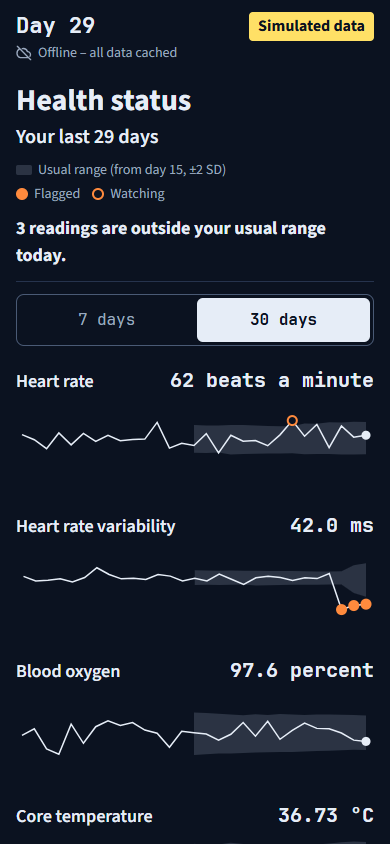
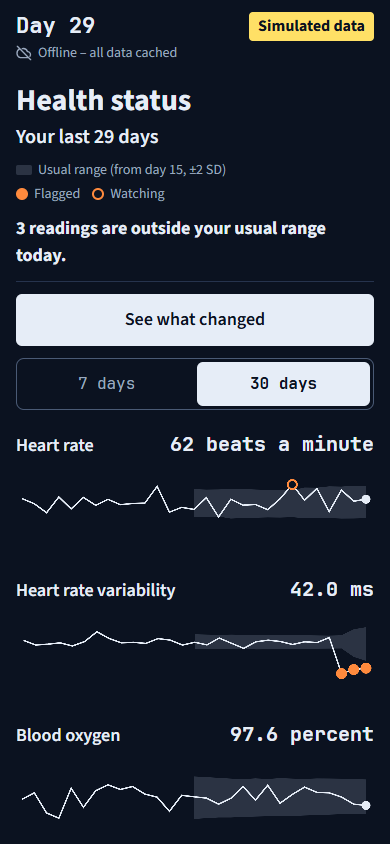
Rule wording matches the code; developer terms off screen; flag list and Health status hierarchy; README facts

diff --git a/app.js b/app.js
@@ -34,8 +34,8 @@ const make = (tag, text, cls) => { const el = put(document.createElement(tag), t
 const checked = (text) => put(document.createElement("span"), text).textContent; // for attributes such as aria-label
 
 const fmt = (signal, v, unit = SIGNALS[signal].unit) => `${v.toFixed(SIGNALS[signal].dp)} ${unit}`;
-// The numbers behind z (today, usual, spread) to one decimal everywhere; z uses the unrounded values,
-// and the card and the queue summary say so (ROUNDING_NOTE). Display only.
+// The numbers behind z (today, usual, spread) to one decimal everywhere; the spread count uses the unrounded values.
+// The card and the queue summary carry ROUNDING_NOTE. Display only.
 const fmtZ = (r, v) => `${v.toFixed(1)} ${SIGNALS[r.signal].unit}`;
 // A number with its unit, inside a sentence, goes in the number font (design: JetBrains Mono for numbers).
 // Runs after put(), on text that already passed the wording check. Display only.
@@ -45,10 +45,11 @@ function monoNums(el) {
     (i % 2 ? Object.assign(document.createElement("span"), { className: "n", textContent: part }) : part)));
   return el;
 }
-const ROUNDING_NOTE = "Numbers are shown to one decimal; z uses the unrounded values.";
+const ROUNDING_NOTE = "Numbers are shown to one decimal.";
 // True of Rules.evaluate: history is every earlier row (up to 30), today left out, flagged days not filtered out.
 const USUAL_NOTE = "Usual range uses your earlier days in this record, including days that were flagged.";
-const signed = (z) => `${z < 0 ? "−" : "+"}${Math.abs(z).toFixed(1)}`;
+// The queue summary's distance from usual in plain words (no "z", no rule id on screen; Hrishin, 13 Nov).
+const spreads = (z) => `${Math.abs(z).toFixed(1)} spreads ${z < 0 ? "below" : "above"} usual`;
 const listWords = (xs) => (xs.length < 2 ? xs.join("") : `${xs.slice(0, -1).join(", ")} and ${xs.at(-1)}`);
 const title = (r) => (r.signal ? SIGNALS[r.signal].name : "Several readings together");
 const names = (r) => listWords(r.signals.map((s, i) => (i ? SIGNALS[s].name.toLowerCase() : SIGNALS[s].name)));
@@ -443,7 +444,8 @@ function renderConsole() {
   put($("console-summary"), n === 0
     ? "Nothing is outside your usual range today."
     : `${n} ${n === 1 ? "reading is" : "readings are"} outside your usual range today.`);
-  $("to-flags").hidden = n === 0 && !state.radiation.fired && !marsCaution();
+  // One button under the summary line and one at the bottom; both hidden only when the list behind them is empty.
+  $("to-flags").hidden = $("to-flags-top").hidden = n === 0 && !state.radiation.fired && !marsCaution();
   $("followup").hidden = day !== NEXT;
   $("restart").hidden = day !== NEXT;
   if (day === NEXT) renderFollowUp();
@@ -615,18 +617,16 @@ function renderFlags() {
       monoNums(make("span", flagLine(r), "flag-line")),
       make("span", plainStatus(r), "flag-status"),
     );
+    // Projection for a flag outside the usual range 3 days running (web/projection.js): one quieter line inside its own card.
+    const p = r.signal && Projection.projection(state.rows, r.signal, state.flags);
+    if (p) {
+      const [text, meta] = Projection.lines(p, SIGNALS[r.signal]);
+      b.append(monoNums(make("span", text, "flag-trend")), make("span", meta, "flag-trend-note"));
+    }
     b.addEventListener("click", () => { renderEvidence(r); show("evidence"); });
     const li = document.createElement("li");
     li.append(b);
     list.append(li);
-    // Trend card (design P2b) under a flag that has been outside the usual range 3 days running (web/projection.js).
-    const p = r.signal && Projection.projection(state.rows, r.signal, state.flags);
-    if (p) {
-      const [text, meta] = Projection.lines(p, SIGNALS[r.signal]), card = document.createElement("li");
-      card.className = "trend-card";
-      card.append(monoNums(make("p", text)), make("p", meta, "meta"));
-      list.append(card);
-    }
   }
   $("flag-note").hidden = row.near_vision_ok !== false;
   put($("flag-note"), "You reported blurred near vision. No rule scores this yet; it goes into the summary for the flight surgeon.");
@@ -675,7 +675,7 @@ function renderEvidence(r) {
       ["Today", fmtZ(r, r.current)],
       [`Your usual (mean of ${r.window_days} days)`, fmtZ(r, r.baseline_mean)],
       ["Usual spread (1 SD)", fmtZ(r, r.baseline_sd), USUAL_NOTE],
-      ["How far", `${times(r.z)} your usual spread (flag at ${Rules.THRESHOLD}×)`],
+      ["How far", `${times(r.z)} your usual spread (watch at ${Rules.THRESHOLD}×, flag at ${Rules.CONFIRM_Z}× or two days at ${Rules.THRESHOLD}×)`],
       ["Status", plainStatus(r)],
     ]
     : [
@@ -702,7 +702,6 @@ function renderEvidence(r) {
   $("ev-step-source").hidden = !step;
   if (step) putSources($("ev-step-source"), sourceRefs(e.countermeasure_source));
   put($("ev-source"), sourceNote(r));
-  put($("ev-rule"), `Rule: ${r.rule}`);
   $("ev-maths").hidden = !r.signal; // single-signal flags only; the 48-hour row has no histogram
   state.markKey = `${state.day}:${r.rule}`;
   $("ev-mark").hidden = !step || !!state.crew;
@@ -741,7 +740,6 @@ function renderMarsCard(c) {
   $("ev-step-source").hidden = false;
   putSources($("ev-step-source"), sourceRefs(c.source));
   put($("ev-source"), c.note);
-  put($("ev-rule"), c.rule);
   $("ev-maths").hidden = true;
   state.markKey = c.chip ? null : `${state.day}:mars_radiation_caution`; // a replay stores no mark
   $("ev-mark").hidden = !!state.crew;
@@ -810,10 +808,10 @@ function drawMaths(r) {
         ctx.strokeStyle = ctx.fillStyle = m.color; ctx.lineWidth = m.bold ? 2 : 1.5; ctx.setLineDash(m.dash);
         ctx.beginPath(); ctx.moveTo(x, top + 4); ctx.lineTo(x, a.bottom); ctx.stroke();
         if (m.dot) { ctx.setLineDash([]); ctx.beginPath(); ctx.arc(x, top + 4, 4, 0, 2 * Math.PI); ctx.fill(); }
-        ctx.font = `${m.bold ? 600 : 400} 13px ${mono}`;
+        ctx.font = `${m.bold ? 600 : 400} 14px ${mono}`;
         ctx.fillText(`${m.x.toFixed(s.dp)} ${s.unit}`, Math.min(Math.max(x, a.left + 30), a.right - 30), a.top - 34 + m.row * 18);
       }
-      ctx.setLineDash([]); ctx.fillStyle = quiet; ctx.font = `400 13px ${mono}`;
+      ctx.setLineDash([]); ctx.fillStyle = quiet; ctx.font = `400 14px ${mono}`;
       for (const x of ticks) ctx.fillText(String(+x.toFixed(2)), px(x), a.bottom + 18);
       ctx.strokeStyle = css("--rule"); ctx.lineWidth = 1; ctx.beginPath(); ctx.moveTo(a.left, a.bottom); ctx.lineTo(a.right, a.bottom); ctx.stroke();
       ctx.restore();
@@ -839,8 +837,8 @@ function summaryLines(who) {
   const row = state.rows.at(-1), lines = [`Crew member ${who}, day ${state.day}. Telemetry is simulated.`];
   for (const r of flagsFor(state.day)) {
     lines.push(r.signal
-      ? `${title(r)}: ${fmtZ(r, r.current)}, usual ${fmtZ(r, r.baseline_mean)} over ${r.window_days} days, z = ${signed(r.z)}, ${r.status === "confirmed" ? "flagged" : "watching"} (rule ${r.rule}).`
-      : `${pairNames(r, true)} flagged within 48 hours, days ${pairDays().join(" and ")} (rule ${r.rule}).`);
+      ? `${title(r)}: ${fmtZ(r, r.current)}, usual ${fmtZ(r, r.baseline_mean)} over ${r.window_days} days, ${spreads(r.z)}, ${r.status === "confirmed" ? "flagged" : "watching"}.`
+      : `${pairNames(r, true)} flagged within 48 hours, days ${pairDays().join(" and ")}.`);
   }
   const mars = marsCaution();
   if (mars) lines.push(mars.queue);
@@ -876,7 +874,7 @@ function renderCrew() {
     const flagged = list.filter((r) => r.signal && r.status === "confirmed").length, watching = list.filter((r) => r.signal && r.status === "watch").length;
     name.append(make("strong", `Crew member ${who}`), make("span", `${flagged} ${flagged === 1 ? "flag" : "flags"}${watching ? ` · ${watching} watching` : ""}`, "crew-count"));
     text.className = "crew-flag";
-    if (top) text.append(make("span", title(top), "flag-name"), monoNums(make("span", flagLine(top), "flag-line")), make("span", plainStatus(top), "flag-status"));
+    if (top) text.append(make("span", title(top), "flag-name"), monoNums(make("span", flagLine(top).replace("Your usual:", "Usual:"), "flag-line")), make("span", plainStatus(top), "flag-status"));
     text.append(make("span", top ? "Awaiting flight surgeon" : "No flags today", "flag-status"));
     li.append(name, text);
     if (top) {

diff --git a/index.html b/index.html
@@ -83,7 +83,7 @@ a { color: inherit; text-underline-offset: 3px; }
 .rt:has(.rt-dot:not([hidden])) { background: var(--rt-go); }
 .rt-dot { width: 64px; height: 64px; border-radius: 50%; background: var(--rt-dot); }
 #rt-status, .step-field { font-family: var(--mono); }
-#rt-status { font-size: 16px; color: var(--ink); }
+#rt-status { margin-top: 12px; font-size: 16px; color: var(--ink); }
 .step-field { font-size: 24px; }
 #sleep { border-color: transparent; } /* the stepper buttons are the frame (design) */
 .rt-big { font-family: var(--mono); font-size: 36px; line-height: 1.1; font-weight: 600; font-variant-numeric: tabular-nums; }
@@ -172,6 +172,8 @@ fieldset { border: 0; padding: 0; margin: 28px 0 0; min-width: 0; }
 .flag-name { font-size: 20px; font-weight: 700; }
 .flag-line { font-variant-numeric: tabular-nums; }
 .flag-status { color: var(--quiet); font-size: 16px; }
+.flag-trend { margin-top: 10px; padding-top: 10px; border-top: 1px solid var(--rule); color: var(--quiet); font-size: 16px; font-variant-numeric: tabular-nums; }
+.flag-trend-note { margin-top: 4px; color: var(--quiet); font-size: 14px; }
 .follow strong { display: block; font-size: 20px; }
 .follow li { position: relative; padding: 14px 16px 14px 56px; border: 1px solid var(--card-border); border-left: 4px solid var(--strong); border-radius: 8px; background: var(--card); }
 .follow li.outside { border-left-color: var(--flag); }
@@ -201,9 +203,8 @@ fieldset { border: 0; padding: 0; margin: 28px 0 0; min-width: 0; }
 .sources ul { list-style: none; padding: 0; margin: 0; font-size: 16px; }
 .sources li { padding: 10px 0; border-top: 1px solid var(--rule); overflow-wrap: anywhere; }
 .sources .not-covered { margin: 0; padding: 12px 0 0; border-top: 1px solid var(--rule); font-size: 16px; font-weight: 600; }
-/* Trend card under its flag (design P2b): framed, no left stripe, so it reads as part of the flag above. */
+/* Framed card for the mission-phase risks. The flag list no longer uses it: a projection is a quieter line inside its flag. */
 .trend-card { padding: 12px 16px; border: 1px solid var(--card-border); border-radius: 8px; background: var(--card); }
-.flag-list .trend-card { margin-top: 8px; }
 .trend-card p { margin: 0; font-variant-numeric: tabular-nums; }
 .trend-card .meta { margin-top: 6px; }
 /* Solar storm alert (design B1): real NOAA data, so the chip replaces the "Simulated data" badge. */
@@ -240,7 +241,6 @@ fieldset { border: 0; padding: 0; margin: 28px 0 0; min-width: 0; }
 .readout .usual-note { grid-column: 1 / -1; border-top: 0; color: var(--quiet); font-size: 14px; font-weight: 400; }
 .cite { overflow-wrap: anywhere; }
 #ev-words strong { font-weight: 700; }
-#ev-rule { margin-top: 24px; overflow-wrap: anywhere; }
 .step-card { margin-top: 28px; padding: 20px 16px; border: 1px solid var(--card-border); border-radius: 12px; background: var(--card); }
 .step-card h2 { margin-top: 0; }
 #ev-step { font-size: 22px; line-height: 1.35; font-weight: 700; }
@@ -266,6 +266,7 @@ fieldset { border: 0; padding: 0; margin: 28px 0 0; min-width: 0; }
 .bar .secondary { flex: 0 0 auto; width: auto; }
 .bar .primary { flex: 1 1 auto; width: auto; }
 #restart { margin-top: 28px; }
+#to-flags-top { margin-top: 12px; }
 
 .sent { font-weight: 600; }
 .message { margin-top: 8px; padding-left: 14px; border-left: 2px solid var(--strong); }
@@ -279,6 +280,7 @@ fieldset { border: 0; padding: 0; margin: 28px 0 0; min-width: 0; }
   .top, main { max-width: 900px; }
   .bar-inner { max-width: 868px; }
   .check-cols { display: grid; grid-template-columns: minmax(0, 1fr) minmax(0, 1fr); gap: 0 32px; align-items: start; }
+  .check-vision { grid-column: 2; } /* tablet: still under sleep and mood */
   .charts { display: grid; grid-template-columns: repeat(2, minmax(0, 1fr)); gap: 20px 24px; margin-top: 20px; }
   .charts .channel { margin-top: 0; }
   .charts .channel.bottom { grid-column: 1 / -1; } /* reaction time, alone on the last row: full row */
@@ -287,6 +289,8 @@ fieldset { border: 0; padding: 0; margin: 28px 0 0; min-width: 0; }
   .top, main { max-width: 1100px; }
   .bar-inner { max-width: 1068px; }
   .charts { grid-template-columns: repeat(3, minmax(0, 1fr)); }
+  .check-rest { grid-column: 2; grid-row: 1 / span 2; }
+  .check-vision { grid-column: 1; grid-row: 2; } /* laptop: near vision under the reaction test, so both columns end near the same height */
   .ev-cols { display: grid; grid-template-columns: minmax(0, 1fr) minmax(0, 1fr); gap: 0 40px; align-items: start; }
   .ev-b > h2:first-child { margin-top: 0; } /* both columns start on the same line */
 }
@@ -401,6 +405,8 @@ fieldset { border: 0; padding: 0; margin: 28px 0 0; min-width: 0; }
     <div class="ends" id="mood-ends"><span>Very low</span><span>Very good</span></div>
   </fieldset>
 
+  </div>
+  <div class="check-vision">
   <h2>Near vision</h2>
   <p class="meta how">How to measure: hold the phone where you normally read, read the line below, then tap Clear or Blurred.</p>
   <p class="eye-line">The galley water heater is back online after the filter swap on Thursday.</p>
@@ -426,6 +432,7 @@ fieldset { border: 0; padding: 0; margin: 28px 0 0; min-width: 0; }
     <li><span><span class="key dot"></span>Flagged</span><span><span class="key ring"></span>Watching</span></li>
   </ul>
   <p id="console-summary" class="summary-line"></p>
+  <button id="to-flags-top" class="primary" type="button" data-go="flags">See what changed</button>
   <div class="range" role="group" aria-label="Days shown">
     <button type="button" data-range="7" aria-pressed="false">7 days</button>
     <button type="button" data-range="0" aria-pressed="true">30 days</button>
@@ -595,7 +602,7 @@ fieldset { border: 0; padding: 0; margin: 28px 0 0; min-width: 0; }
   <p id="ev-note" hidden></p>
   <h2>The numbers</h2>
   <dl id="ev-numbers" class="readout"></dl>
-  <p id="ev-rounding" class="meta">Numbers are shown to one decimal; z uses the unrounded values.</p>
+  <p id="ev-rounding" class="meta">Numbers are shown to one decimal.</p>
   <div id="ev-extra" hidden></div>
   <button id="ev-maths" class="text-button maths-link" type="button">Show the maths</button>
   </div>
@@ -616,7 +623,6 @@ fieldset { border: 0; padding: 0; margin: 28px 0 0; min-width: 0; }
   </div>
   </div>
   <p id="ev-source" class="meta"></p>
-  <p id="ev-rule" class="meta"></p>
   <div class="bar">
     <div class="bar-inner">
       <button id="ev-back" class="secondary" type="button" data-go="flags">Back to list</button>
@@ -687,11 +693,11 @@ fieldset { border: 0; padding: 0; margin: 28px 0 0; min-width: 0; }
 <script src="trend.js?v=076b8d7565"></script>
 <script src="skylab4.js?v=68142f1765"></script>
 <script src="projection.js?v=1eb08e8dd9"></script>
-<script src="maths.js?v=a15139ff07"></script>
-<script src="mars.js?v=d3caeb403e"></script>
+<script src="maths.js?v=055119f2d0"></script>
+<script src="mars.js?v=0a75517682"></script>
 <script src="spe.js?v=8dc481d0f5"></script>
 <script src="reaction.js?v=0c373ca889"></script>
 <script src="store.js?v=cb99d76b39"></script>
-<script src="app.js?v=6b73518f82"></script>
+<script src="app.js?v=f63737eba9"></script>
 </body>
 </html>

diff --git a/mars.js b/mars.js
@@ -20,7 +20,7 @@
         ["Latest day", amount(today)],
         [`Usual (mean of ${n} days)`, amount(m.baseline_mean)],
         ["Usual spread (1 SD)", amount(m.baseline_sd)],
-        ["How far", `${m.z.toFixed(1)}× the usual spread (flag at ${m.threshold_z}×)`],
+        ["How far", `${m.z.toFixed(1)}× the usual spread (caution at ${m.threshold_z}×)`],
         ["Status", e.label],
       ],
       why: `${e.trigger_note} ${e.practice_note}`,
@@ -28,8 +28,7 @@
       source: e.countermeasure_source,
       strength: `Evidence strength: ${e.strength}`,
       note: `Real NASA MSL RAD data, not simulated. Cached ${m.fetched_at.slice(0, 10)}.`,
-      rule: `Rule: mars_radiation_caution (2 SD above the mean of the previous ${n} days)`,
-      queue: `${name} (real NASA MSL RAD, not a crew reading): ${amount(today)} on ${m.date}, usual ${amount(m.baseline_mean)} over ${n} days, z = +${m.z.toFixed(1)}.`,
+      queue: `${name} (real NASA MSL RAD, not a crew reading): ${amount(today)} on ${m.date}, usual ${amount(m.baseline_mean)} over ${n} days, ${m.z.toFixed(1)} spreads above usual.`,
     };
   }
 
@@ -75,7 +74,7 @@
   // Every line of the replay in screen order (for the wording test).
   const replayLines = (ev, e) => {
     const [before, c] = replay(ev, e);
-    return [BUTTON, before, c.chip, c.badge, c.title, c.plain, c.label, ...c.numbers.flat(), ...c.notes, c.why, c.step, c.strength, "Sources", ...c.sources, c.note, c.rule, c.back];
+    return [BUTTON, before, c.chip, c.badge, c.title, c.plain, c.label, ...c.numbers.flat(), ...c.notes, c.why, c.step, c.strength, "Sources", ...c.sources, c.note, c.back];
   };
 
   const api = { card, replay, replayLines, BUTTON };

diff --git a/maths.js b/maths.js
@@ -48,7 +48,7 @@
       title: `${spec.name}, day ${v.day}`,
       numbers: `Your usual: ${f(v.mean)} ${u}. Usual spread: ${f(v.sd)} ${u}. Today: ${f(v.today)} ${u}.`,
       sum: `Today is (${f(a)} − ${f(b)}) ÷ ${f(v.sd)} = ${zText(v.z)} spreads ${high ? "above" : "below"} your usual.`,
-      rule: `The rule flags ${Rules.THRESHOLD} or more.`,
+      rule: `${Rules.THRESHOLD} or more is a watch item; ${Rules.CONFIRM_Z} or more, or ${Rules.THRESHOLD} or more on two days running, is a flag.`,
       window: `Your usual range is computed from your own ${v.n} days, days ${v.first} to ${v.last} (simulated record).`,
       bins: `Bars: your ${v.n} days in ${BINS} equal-width bins of ${+v.bins.width.toFixed(2)} ${u}. Today is the line in the flag colour.`,
       aria: `Histogram of your ${v.n} days of ${spec.name.toLowerCase()}, days ${v.first} to ${v.last}. Usual range ${one(v.low)} to ${one(v.high)} ${u}. ` +
